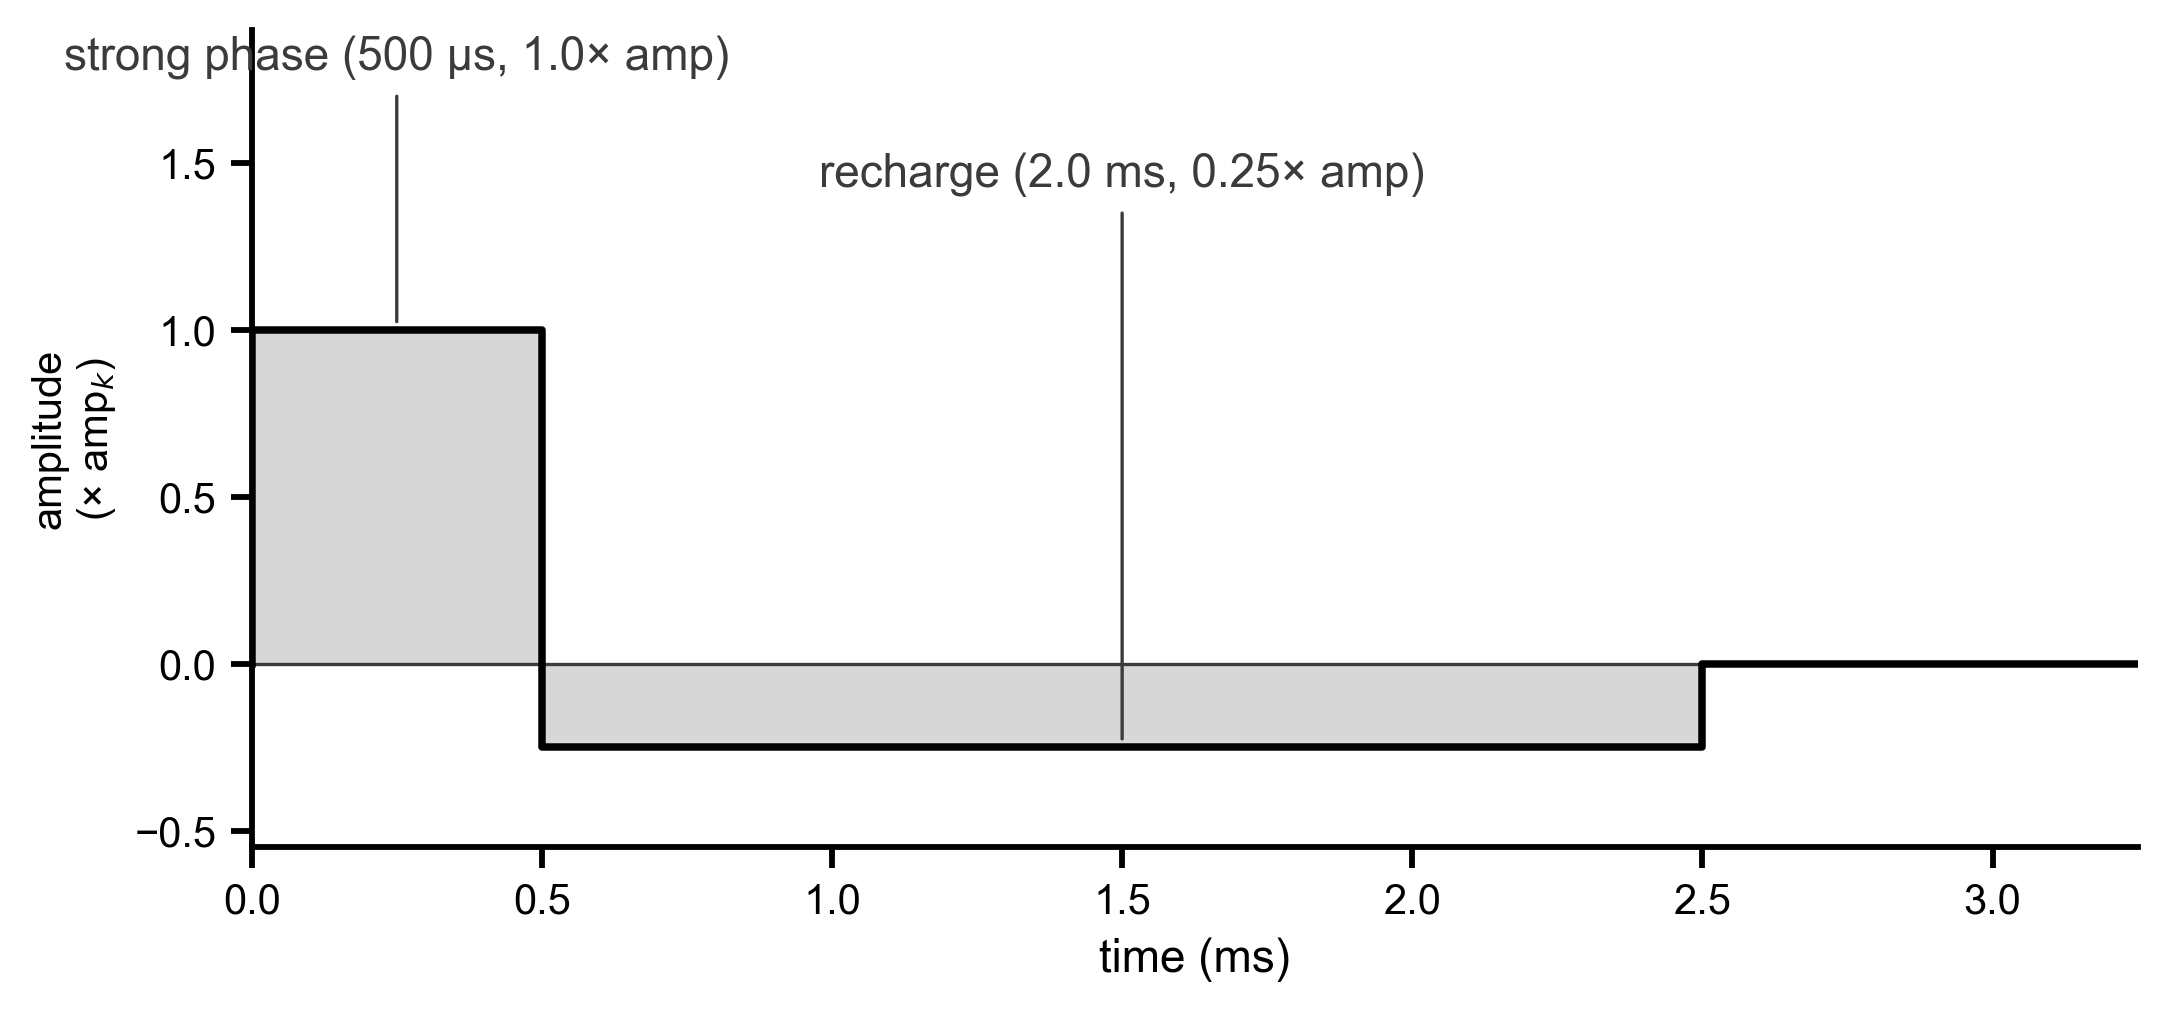
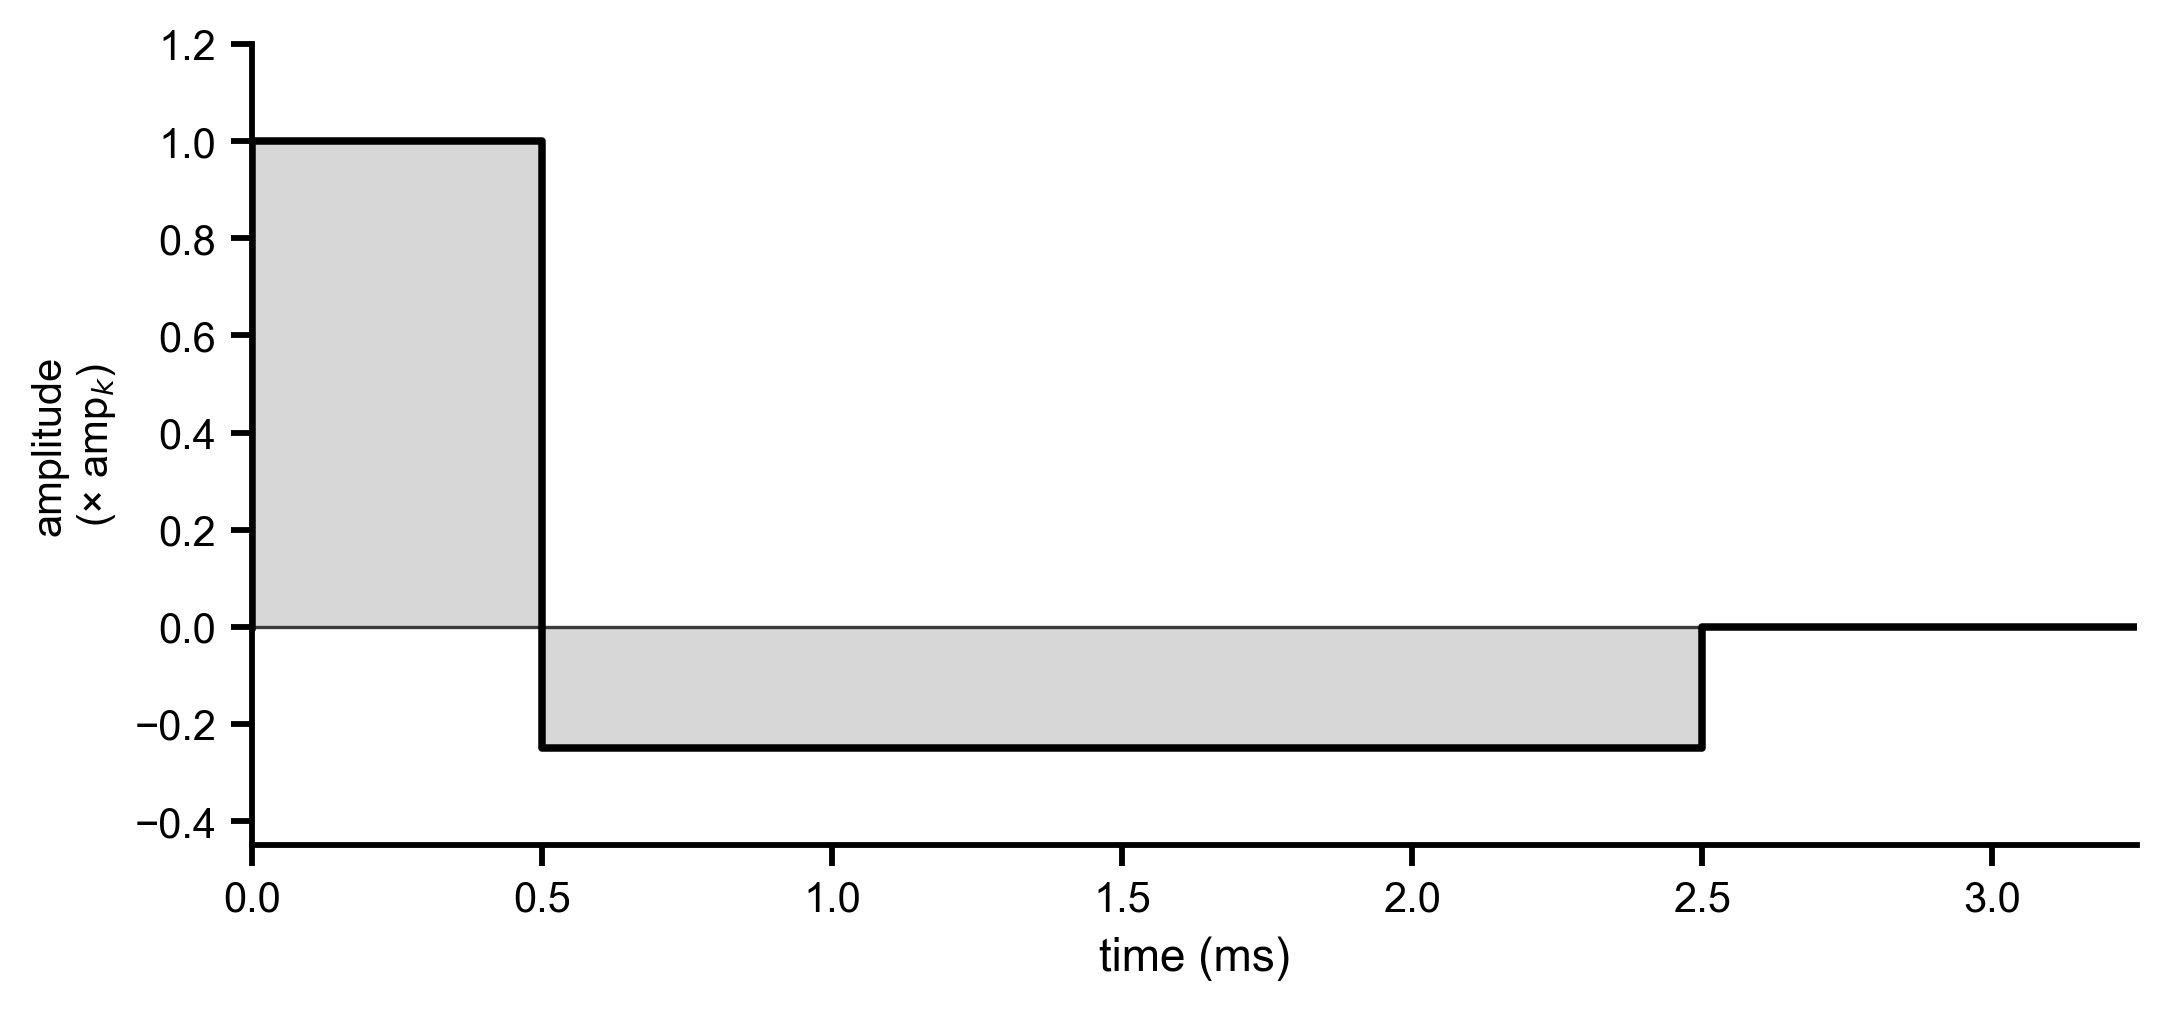
duke per-sample pulse: drop strong-phase / recharge annotations
User request: remove the in-figure phase annotations.  The pulse
shape is now communicated by the trace alone -- the bar at 1.0 amp
from 0-0.5 ms is the strong phase, the bar at -0.25 amp from
0.5-2.5 ms is the charge-balanced recharge, the rest is the
inter-stim interval.  Numerical parameters can live in the figure
caption rather than the figure itself.

Tightened y-range back to [p2_amp - 0.2, p1_amp + 0.2] now that we
don't need headroom for annotation text.

diff --git a/experiments_v2/figures_duke.py b/experiments_v2/figures_duke.py
@@ -708,27 +708,8 @@ def _draw_pulse_trace(ax, pulse_shape: str, pw_ms: float,
     ax.set_xlabel("time (ms)", fontsize=11)
     ax.set_ylabel("amplitude\n(× amp$_k$)", fontsize=10)
     ax.set_xlim(0, t[-1])
-    # Generous y-headroom so phase annotations live ENTIRELY above
-    # the pulse trace -- no in-data labels, no overlap with tick
-    # labels or with the recharge bar.
-    ax.set_ylim(p2_amp - 0.3, p1_amp * 1.9)
+    ax.set_ylim(p2_amp - 0.2, p1_amp + 0.2)
     ax.tick_params(labelsize=10)
-    # Phase annotations -- labelled with thin pointer lines (annotate
-    # arrows) from the headroom region down to the phase midpoints.
-    ax.annotate(
-        f"strong phase ({pw_ms*1000:.0f} µs, 1.0× amp)",
-        xy=(p1_dur * 0.5, p1_amp), xycoords="data",
-        xytext=(p1_dur * 0.5, p1_amp * 1.75), textcoords="data",
-        ha="center", va="bottom", fontsize=11, color=PALETTE["grey"],
-        arrowprops=dict(arrowstyle="-", color=PALETTE["grey"], lw=0.8),
-    )
-    ax.annotate(
-        f"recharge ({p2_dur:.1f} ms, {1.0/asym_ratio:.2f}× amp)",
-        xy=(p1_dur + p2_dur * 0.5, p2_amp), xycoords="data",
-        xytext=(p1_dur + p2_dur * 0.5, p1_amp * 1.4), textcoords="data",
-        ha="center", va="bottom", fontsize=11, color=PALETTE["grey"],
-        arrowprops=dict(arrowstyle="-", color=PALETTE["grey"], lw=0.8),
-    )
 
 
 def _make_xsection_legend(out_path: Path) -> Path:
